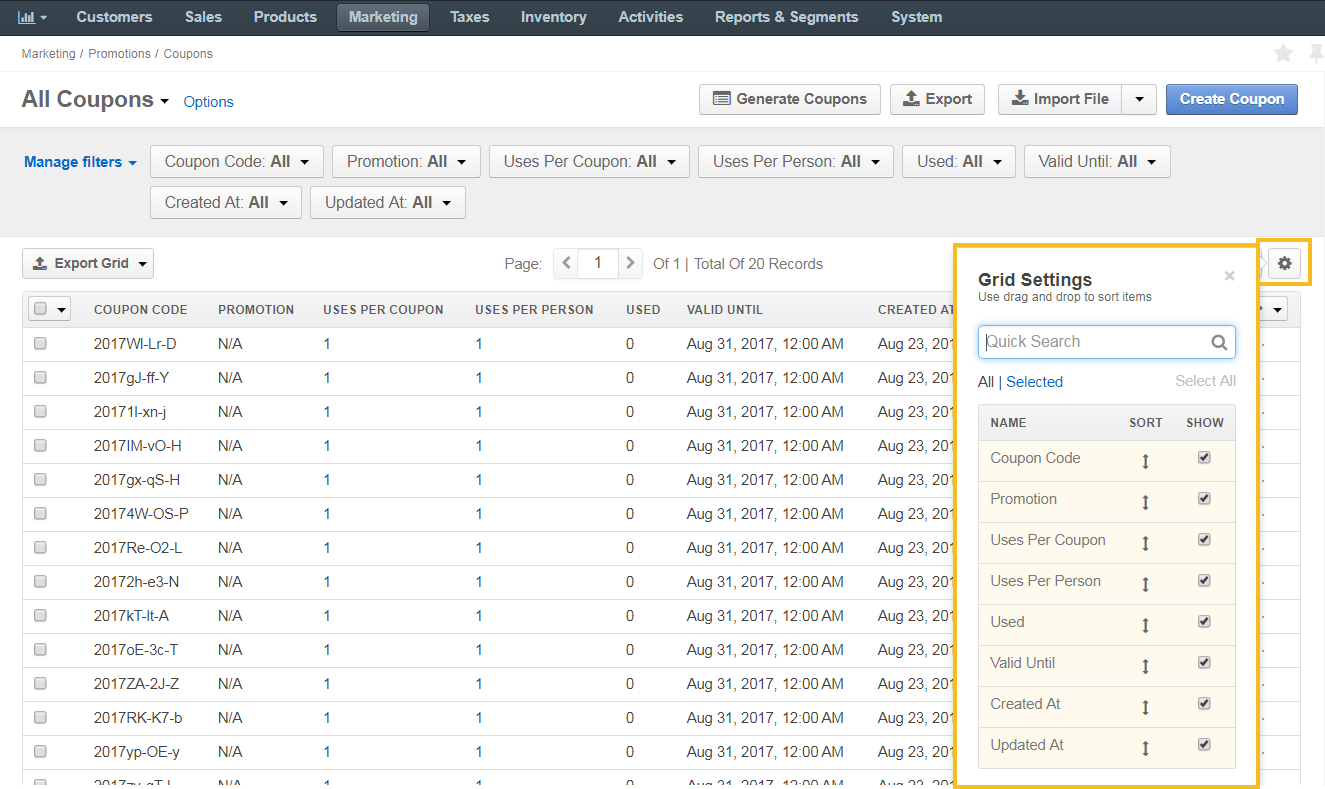
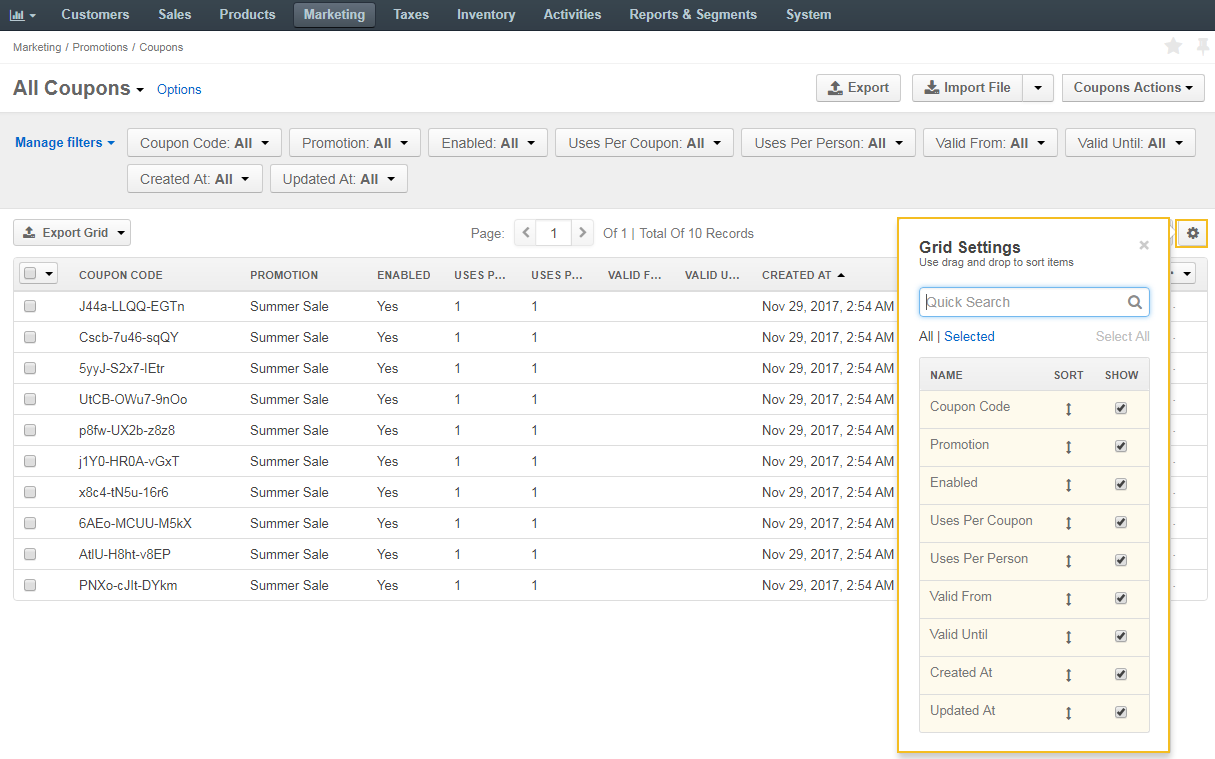
DOC-447: Update Promotions and Coupons Documentation (#15244)
- updated screenshots
- updated changed field names
- updated coupons UI

diff --git a/user_guide/marketing_promotions/create.rst b/user_guide/marketing_promotions/create.rst
@@ -17,7 +17,7 @@ To create a new promotion:
 
    The following page opens:
 
-   .. image:: /user_guide/img/marketing/promotions/NewCreatePromotion.png
+   .. image:: /user_guide/img/marketing/promotions/CreateNewPromotion.png
 
 3. In the **General** section, complete the following fields:
 
@@ -28,9 +28,7 @@ To create a new promotion:
    e) **Stop Further Rule Processing** --- Select this option if you wish to prevent applying other promotions with lower priority.
 
       For instance, if there are three promotions for the same products with sort orders 1, 2 and 3 respectively, and the promotion with sort order 2 has **Stop Further Rule Processing** enabled, then when the turn reaches such promotion, the queue stops and promotion with sort order 3 is not applied.
-   f) **Triggered by** --- Select *Coupons and Conditions* if the promotion is going to use :ref:`coupons <user-guide--marketing--promotions--coupons>`, and *Conditions only* if it is not.
-
-      .. note:: When the option is set to *Yes*, the promotion can be applied exclusively via coupons. When the option is set to *No*, the promotion cannot be attached to any coupon.
+   f) **Triggered by** --- Select *Coupons and Conditions* if the promotion is going to use :ref:`coupons <user-guide--marketing--promotions--coupons>`, and *Conditions only* if it is not.  
 
 4. In the **Discount Options** section, configure the discount calculation.
 
@@ -51,9 +49,9 @@ To create a new promotion:
 
    d) Depending on the discount type, the remaining fields in the **Discount Options** section will differ. See the following sections for their detailed description:
 
-      * `Discount Options for Line Items`_
+      * `Discount Options for Order Line Item`_
 
-      * `Discount Options for Buy X Get Y`_
+      * `Discount Options for Buy X Get Y (Same Product)`_
 
       * `Discount Options for Shipping`_
 
@@ -84,25 +82,25 @@ To create a new promotion:
 
    .. image:: /user_guide/img/marketing/promotions/CouponFrontStoreName.png
 
-Discount Options for Line Items
-~~~~~~~~~~~~~~~~~~~~~~~~~~~~~~~
+Discount Options for Order Line Item
+~~~~~~~~~~~~~~~~~~~~~~~~~~~~~~~~~~~~
 
 For the line items discount, provide the following information:
 
 .. image:: /user_guide/img/marketing/promotions/LineItems.png
 
-* **Product Unit** --- Select the necessary unit type from the list (e.g. each, item, set.). Note that the discount will only apply to the product with a specified unit type.
+* **Unit of Quantity** --- Select the necessary unit type from the list (e.g. each, item, set.). Note that the discount will only apply to the product with a specified unit type.
 
 * **Apply Discount to** --- Select whether to apply discount to each of the items on sale or for the line items total.
 
   For instance, if there are 10 items in the shopping list that qualify for a discount and the discount is $1 per item, then the discount will constitute $10. If in the same scenario the promotion should apply to the line items total, then the total discount will constitute $1.
 
-* **Maximum Quantity Discount is Applied to** --- Enter the maximum quantity of products of the same type eligible for discount in a line item/order. For example, when the limit is set to 10 and a buyer orders 100 items, they will be charged the discounted price for 10 items out of 100, and will pay the full price for the remaining 90 items.
+* **Maximum Qty Discount is Applied to** --- Enter the maximum quantity of products of the same type eligible for discount in a line item/order. For example, when the limit is set to 10 and a buyer orders 100 items, they will be charged the discounted price for 10 items out of 100, and will pay the full price for the remaining 90 items.
 
   .. note:: Please note that the **Maximum Quantity Discount is Applied to** field can only be applied if the **Apply Discount to** field is set to *Each Item*.
 
-Discount Options for Buy X Get Y
-~~~~~~~~~~~~~~~~~~~~~~~~~~~~~~~~
+Discount Options for Buy X Get Y (Same Product)
+~~~~~~~~~~~~~~~~~~~~~~~~~~~~~~~~~~~~~~~~~~~~~~~
 
 For the Buy X Get Y (Same Product) discount, provide the following information:
 
@@ -110,7 +108,7 @@ For the Buy X Get Y (Same Product) discount, provide the following information:
 
 * **Buy X Quantity** --- Enter the quantity of X products the customer needs to purchase to be eligible for the discount.
 * **Get Y Quantity** --- Enter the quantity of Y products which the customer will get a discount for when purchases a number of X products.
-* **Product Unit** --- Select the necessary unit type from the list (e.g. each, item, set). Note that the discount will only apply to the product with the specified unit type.
+* **Unit of Quantity** --- Select the necessary unit type from the list (e.g. each, item, set). Note that the discount will only apply to the product with the specified unit type.
 * **Apply Discount to** --- Select one of the options, *Each Y Item Separately* (the discount will apply to Y items only) or *X+Y Total* (the discount will apply to the total of X and Y items).
 
   For instance, if:

diff --git a/user_guide/marketing_coupons/generate.rst b/user_guide/marketing_coupons/generate.rst
@@ -8,22 +8,21 @@ Generate Coupons
 To generate new coupons:
 
 1. Navigate to  **Marketing > Promotions > Coupons** in the main menu.
-2. Click |IcListAlt| **Generate Multiple Coupons** on the top right.
-
+2. Click **Coupons Actions > Generate Multiple Coupons** on the top right.
 
    The following form appears:
 
    .. image:: /user_guide/img/marketing/coupons/GenerateCoupons.png
 
-
 3. In the form, complete the following fields:
 
-   * **Owner** --- Select the business unit responsible for the coupon.
-   * **Coupon Quantity** --- Specify the quantity of coupons to be automatically generated.
-   * **Promotion** --- Select the promotion that the coupon should relate to, or click |IcBars| to load the list of promotions to choose from. Please note that only promotions with the *Use Coupon* :ref:`option <user-guide--marketing--promotions--create>` set to *Yes* will be displayed on the list of available promotions.
+   * **Promotion** --- Select the promotion that the coupon should relate to, or click |IcBars| to load the list of promotions to choose from. Please note that only promotions with the *Triggered by* :ref:`option <user-guide--marketing--promotions--create>` set to *Coupons and Conditions* will be displayed on the list of available promotions.
+   * **Enabled** --- Enable the check box to activate the coupons.
    * **Uses Per Coupon** --- Enter the number of times that the coupon may be used.
    * **Uses Per Person** --- Enter the number of times a specific customer can use the coupon.
-   * **Valid Until** --- Provide the expiration date and time for the coupon.
+   * **Valid From/Until** --- Provide the expiration date and time for the coupon.
+   * **Owner** --- Select the business unit responsible for the coupon.
+   * **Coupon Quantity** --- Specify the quantity of coupons to be automatically generated.
    * **Code Length** --- Enter the number that represents the desired length of the coupon code.
    * **Code Type** --- Select the coupon code type from the list (numeric, alphanumeric or alphabetic).
    * **Code Prefix** --- Enter the prefix for the coupon code. If provided, each code will start from this prefix.
@@ -37,9 +36,7 @@ To generate new coupons:
 
    The coupons list should now have the coupon codes you have just generated.
 
-
 .. stop
-
 
 .. include:: /user_guide/include_images.rst
    :start-after: begin

diff --git a/user_guide/marketing_coupons/create.rst b/user_guide/marketing_coupons/create.rst
@@ -8,7 +8,7 @@ Create Coupons
 To create a new coupon:
 
 1. Navigate to **Marketing > Promotions > Coupons** in the main menu.
-2. Click **Create Coupon** on the top right.
+2. Click **Coupons Actions > Create Coupon** on the top right.
 
    .. image:: /user_guide/img/marketing/coupons/FindCoupon.png
 
@@ -20,10 +20,11 @@ To create a new coupon:
 
    * **Owner** --- Select the business unit responsible for the coupon.
    * **Coupon Code** --- Enter the coupon code. Code value should be numeric, alphabetic or both, and have no spaces. This field is mandatory.
-   * **Promotion** --- Select the promotion that the coupon should relate to, or click |IcBars| to load the list of promotions to choose from. Please note that only promotions with the **Use Coupon** option set to *Yes* will be displayed on the list of available promotions. If there are no promotions to link the coupon to, they can be created and added to the coupon later.
+   * **Promotion** --- Select the promotion that the coupon should relate to, or click |IcBars| to load the list of promotions to choose from. Please note that only promotions with the **Triggered by** option set to *Coupons and Conditions* will be displayed on the list of available promotions. If there are no promotions to link the coupon to, they can be created and added to the coupon later.
+   * **Enabled** --- Enable the check box to activate the coupon. To deactivate it, clear the check box.
    * **Uses Per Coupon** --- Enter the number of times that the coupon may be used.
    * **Uses Per Person** --- Enter the number of times a specific customer can use the coupon.
-   * **Valid Until** --- Provide the expiration date and time for the coupon.
+   * **Valid From/Until** --- Provide the expiration date and time for the coupon.
 
 4. Click **Save**.
 

diff --git a/user_guide/marketing_coupons/sample_coupon.rst b/user_guide/marketing_coupons/sample_coupon.rst
@@ -13,7 +13,7 @@ Create a Promotion
 As coupons should always be linked to promotions, the first step is to create a new promotion:
 
 1. Navigate to **Marketing > Promotions > Promotions** in the main menu.
-2. Click **Create Promotion** on the top right.
+2. Click **Coupons Actions > Create Promotion** on the top right.
 
    .. image:: /user_guide/img/marketing/coupons/SampleCoupons1.png
 
@@ -31,7 +31,7 @@ Generate Coupons
 Next, we will generate coupons for this promotion:
 
 1. Navigate to **Marketing > Promotions > Coupons** in the main menu.
-2. Click |IcListAlt| **Generate Multiple Coupons**.
+2. Click **Coupons Actions > Generate Multiple Coupons**.
 
    .. image:: /user_guide/img/marketing/coupons/SampleCoupons3.png
 

diff --git a/user_guide/marketing_coupons/viewlist.rst b/user_guide/marketing_coupons/viewlist.rst
@@ -19,8 +19,8 @@ The page contains the list of all available coupons in your Oro application. Fro
 .. image:: /user_guide/img/marketing/coupons/ActionsCoupons.png
 
 
-1. Create a new coupon: Click **Create Promotion** on the top right.
-2. Generate coupons: Click |IcListAlt| **Generate Multiple Coupons** on the top right.
+1. Create a new coupon: Click **Coupons Actions > Create Promotion** on the top right.
+2. Generate coupons: Click **Coupons Actions > Generate Multiple Coupons** on the top right.
 3. Export coupons: Click  **Export** on the top right.
 4. Import coupons: Click  **Import** on the top right.
 5. View coupon details: Click on the item from the list to open its details page.

diff --git a/user_guide/marketing_promotions/viewlist.rst b/user_guide/marketing_promotions/viewlist.rst
@@ -38,7 +38,7 @@ In addition to viewing promotion details, you can perform the following actions 
 * Delete: |IcDelete| **Delete**
 * Add Note: |IcAddNote| **Add Note**
 
-.. image:: /user_guide/img/marketing/promotions/NewViewPromotions.png
+.. image:: /user_guide/img/marketing/promotions/ViewPromotions.png
 
 .. finish
 
